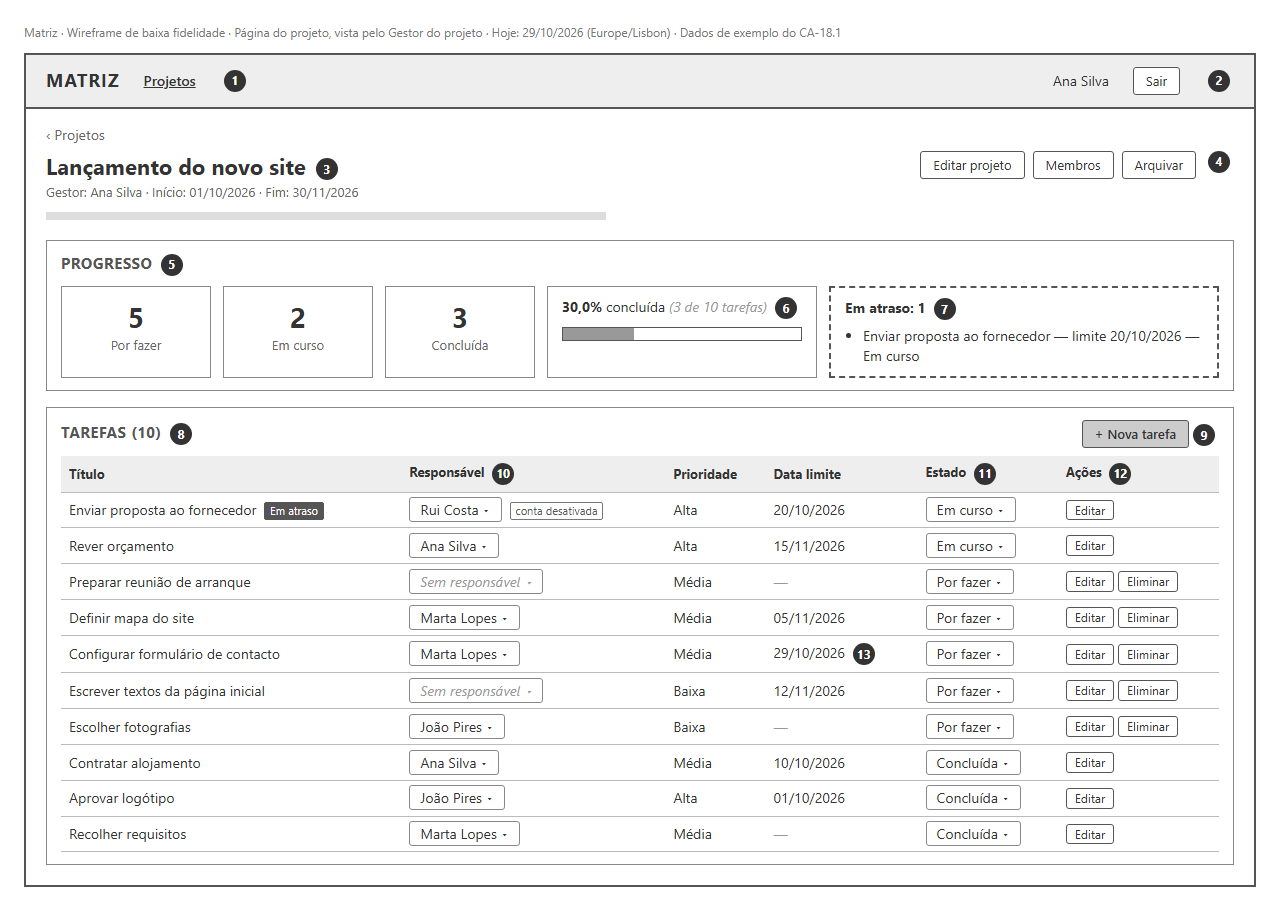
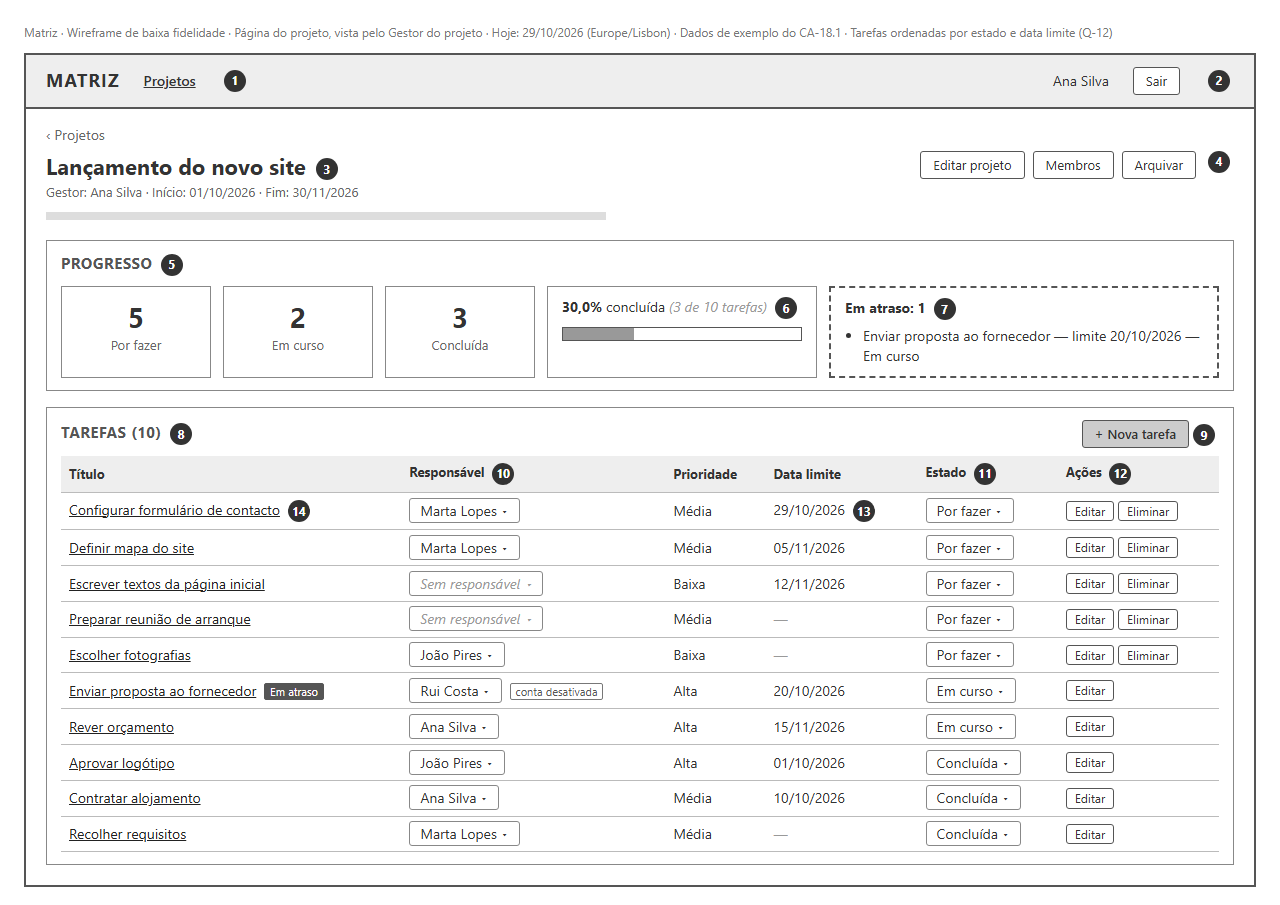
docs: revisão crítica do Architecture Pack (Ficha 2, Exercício 5)
- constraints.md: RV-24 a RV-30 e decisões Q-12 (ordem das listas) e
  Q-13 (membros veem os nomes dos outros membros).
- requirements.md e user-stories.md: regras de Q-12 e Q-13 em RF-06,
  RF-15, RF-18 e na matriz de permissões; CA-07.3, CA-17.3 e CA-19.5.
- architecture.md: o Progresso lê as tarefas pela interface de Tarefas.
- database.md: regra 15 e email sem distinguir maiúsculas no diagrama.
- openapi.yaml: ordem de verificação dos erros e operações por documentar.
- docs/ui/: tarefas na ordem de Q-12, título como link para o detalhe e
  validação face à API corrigida.
- README: Architecture Pack revisto.

diff --git a/docs/ui/wireframe.html b/docs/ui/wireframe.html
@@ -48,12 +48,13 @@
   .muted { color: #999; font-style: italic; }
   .sel::after { content: " ▾"; font-size: 11px; }
   .c { display: inline-flex; align-items: center; justify-content: center; width: 22px; height: 22px; border-radius: 50%; background: #333; color: #fff; font-size: 12px; font-weight: 700; margin: 0 4px; vertical-align: middle; }
+  td a { color: #222; text-decoration: underline; }
   .toolbar { display: flex; align-items: center; justify-content: space-between; margin-bottom: 8px; }
 </style>
 </head>
 <body>
 <div class="frame">
-  <div class="note">Matriz · Wireframe de baixa fidelidade · Página do projeto, vista pelo Gestor do projeto · Hoje: 29/10/2026 (Europe/Lisbon) · Dados de exemplo do CA-18.1</div>
+  <div class="note">Matriz · Wireframe de baixa fidelidade · Página do projeto, vista pelo Gestor do projeto · Hoje: 29/10/2026 (Europe/Lisbon) · Dados de exemplo do CA-18.1 · Tarefas ordenadas por estado e data limite (Q-12)</div>
 
   <div class="app">
     <div class="top">
@@ -108,16 +109,16 @@
             <tr><th>Título</th><th>Responsável <span class="c">10</span></th><th>Prioridade</th><th>Data limite</th><th>Estado <span class="c">11</span></th><th>Ações <span class="c">12</span></th></tr>
           </thead>
           <tbody>
-            <tr><td>Enviar proposta ao fornecedor <span class="tag dark">Em atraso</span></td><td><span class="box sel">Rui Costa</span> <span class="tag">conta desativada</span></td><td>Alta</td><td>20/10/2026</td><td><span class="box sel">Em curso</span></td><td><span class="btn small">Editar</span></td></tr>
-            <tr><td>Rever orçamento</td><td><span class="box sel">Ana Silva</span></td><td>Alta</td><td>15/11/2026</td><td><span class="box sel">Em curso</span></td><td><span class="btn small">Editar</span></td></tr>
-            <tr><td>Preparar reunião de arranque</td><td><span class="box sel muted">Sem responsável</span></td><td>Média</td><td class="muted">—</td><td><span class="box sel">Por fazer</span></td><td><span class="btn small">Editar</span> <span class="btn small">Eliminar</span></td></tr>
-            <tr><td>Definir mapa do site</td><td><span class="box sel">Marta Lopes</span></td><td>Média</td><td>05/11/2026</td><td><span class="box sel">Por fazer</span></td><td><span class="btn small">Editar</span> <span class="btn small">Eliminar</span></td></tr>
-            <tr><td>Configurar formulário de contacto</td><td><span class="box sel">Marta Lopes</span></td><td>Média</td><td>29/10/2026 <span class="c">13</span></td><td><span class="box sel">Por fazer</span></td><td><span class="btn small">Editar</span> <span class="btn small">Eliminar</span></td></tr>
-            <tr><td>Escrever textos da página inicial</td><td><span class="box sel muted">Sem responsável</span></td><td>Baixa</td><td>12/11/2026</td><td><span class="box sel">Por fazer</span></td><td><span class="btn small">Editar</span> <span class="btn small">Eliminar</span></td></tr>
-            <tr><td>Escolher fotografias</td><td><span class="box sel">João Pires</span></td><td>Baixa</td><td class="muted">—</td><td><span class="box sel">Por fazer</span></td><td><span class="btn small">Editar</span> <span class="btn small">Eliminar</span></td></tr>
-            <tr><td>Contratar alojamento</td><td><span class="box sel">Ana Silva</span></td><td>Média</td><td>10/10/2026</td><td><span class="box sel">Concluída</span></td><td><span class="btn small">Editar</span></td></tr>
-            <tr><td>Aprovar logótipo</td><td><span class="box sel">João Pires</span></td><td>Alta</td><td>01/10/2026</td><td><span class="box sel">Concluída</span></td><td><span class="btn small">Editar</span></td></tr>
-            <tr><td>Recolher requisitos</td><td><span class="box sel">Marta Lopes</span></td><td>Média</td><td class="muted">—</td><td><span class="box sel">Concluída</span></td><td><span class="btn small">Editar</span></td></tr>
+            <tr><td><a>Configurar formulário de contacto</a> <span class="c">14</span></td><td><span class="box sel">Marta Lopes</span></td><td>Média</td><td>29/10/2026 <span class="c">13</span></td><td><span class="box sel">Por fazer</span></td><td><span class="btn small">Editar</span> <span class="btn small">Eliminar</span></td></tr>
+            <tr><td><a>Definir mapa do site</a></td><td><span class="box sel">Marta Lopes</span></td><td>Média</td><td>05/11/2026</td><td><span class="box sel">Por fazer</span></td><td><span class="btn small">Editar</span> <span class="btn small">Eliminar</span></td></tr>
+            <tr><td><a>Escrever textos da página inicial</a></td><td><span class="box sel muted">Sem responsável</span></td><td>Baixa</td><td>12/11/2026</td><td><span class="box sel">Por fazer</span></td><td><span class="btn small">Editar</span> <span class="btn small">Eliminar</span></td></tr>
+            <tr><td><a>Preparar reunião de arranque</a></td><td><span class="box sel muted">Sem responsável</span></td><td>Média</td><td class="muted">—</td><td><span class="box sel">Por fazer</span></td><td><span class="btn small">Editar</span> <span class="btn small">Eliminar</span></td></tr>
+            <tr><td><a>Escolher fotografias</a></td><td><span class="box sel">João Pires</span></td><td>Baixa</td><td class="muted">—</td><td><span class="box sel">Por fazer</span></td><td><span class="btn small">Editar</span> <span class="btn small">Eliminar</span></td></tr>
+            <tr><td><a>Enviar proposta ao fornecedor</a> <span class="tag dark">Em atraso</span></td><td><span class="box sel">Rui Costa</span> <span class="tag">conta desativada</span></td><td>Alta</td><td>20/10/2026</td><td><span class="box sel">Em curso</span></td><td><span class="btn small">Editar</span></td></tr>
+            <tr><td><a>Rever orçamento</a></td><td><span class="box sel">Ana Silva</span></td><td>Alta</td><td>15/11/2026</td><td><span class="box sel">Em curso</span></td><td><span class="btn small">Editar</span></td></tr>
+            <tr><td><a>Aprovar logótipo</a></td><td><span class="box sel">João Pires</span></td><td>Alta</td><td>01/10/2026</td><td><span class="box sel">Concluída</span></td><td><span class="btn small">Editar</span></td></tr>
+            <tr><td><a>Contratar alojamento</a></td><td><span class="box sel">Ana Silva</span></td><td>Média</td><td>10/10/2026</td><td><span class="box sel">Concluída</span></td><td><span class="btn small">Editar</span></td></tr>
+            <tr><td><a>Recolher requisitos</a></td><td><span class="box sel">Marta Lopes</span></td><td>Média</td><td class="muted">—</td><td><span class="box sel">Concluída</span></td><td><span class="btn small">Editar</span></td></tr>
           </tbody>
         </table>
       </div>

diff --git a/docs/ui/wireframe.md b/docs/ui/wireframe.md
@@ -1,6 +1,6 @@
 # Matriz — Wireframe da página do projeto
 
-Versão 0.1 · 29 de outubro de 2026 · Ficha Prática 02, Exercício 4
+Versão 0.2 · 29 de outubro de 2026 · Ficha Prática 02, Exercícios 4 e 5 · a 0.2 aplica a revisão crítica (RV-27, RV-28, Q-12, Q-13).
 
 > **Estado: proposta, por aprovar pela dona do produto (R-06).** Wireframe de baixa fidelidade de um ecrã do MVP. Não define cores, tipografia nem tecnologia. Os pressupostos de navegação e de interação estão na secção 5, separados dos requisitos.
 
@@ -30,12 +30,13 @@ Os números correspondem aos círculos da imagem.
 | 5 | Contagem de tarefas por estado | RF-16, CA-18.1 |
 | 6 | Percentagem concluída, arredondada às décimas, com o total de tarefas | RF-17, A-09, RV-12, CA-18.1 |
 | 7 | Quantas e quais tarefas estão em atraso | RF-18, CA-19.1 |
-| 8 | Lista de tarefas com título, responsável, prioridade, data limite e estado | RF-15, CA-17.1 |
+| 8 | Lista de tarefas com título, responsável, prioridade, data limite e estado, ordenada por estado e, dentro de cada estado, por data limite crescente (sem data no fim) | RF-15, CA-17.1, CA-17.3, Q-12 |
 | 9 | Criar tarefa (só o Gestor) | RF-09, D-11, EC-05 |
 | 10 | Responsável: escolher, mudar ou retirar. Só aparecem membros ativos do projeto, incluindo o Gestor. Um responsável desativado mantém-se, com o aviso "conta desativada" | RF-10, A-15, CA-12.1 a CA-12.4, EC-21, EC-22 |
 | 11 | Mudar o estado, para qualquer um dos três | RF-11, RF-12, CA-13.2, CA-13.4 |
 | 12 | "Editar" abre todos os campos da tarefa (Gestor). "Eliminar" só aparece em tarefas "Por fazer" | RF-14, RF-22, A-11, EC-13 |
 | 13 | Data limite igual a hoje: a tarefa ainda não está em atraso | A-08, EC-07 |
+| 14 | O título é um link que abre o detalhe da tarefa, onde se lê a descrição | RF-15, CA-17.2, RV-28 |
 
 Os dados de exemplo também mostram:
 - "Contratar alojamento" e "Aprovar logótipo" estão "Concluída" com a data limite ultrapassada e não aparecem em atraso (CA-19.2).
@@ -48,7 +49,7 @@ Não desenhadas; decorrem da matriz de permissões ([requirements.md](../require
 
 | Situação | O que muda no ecrã |
 |---|---|
-| **Membro do projeto** (não Gestor) | Não vê "Editar projeto", "Membros", "Arquivar", "+ Nova tarefa" nem "Eliminar" (RF-05 a RF-07, RF-09, RF-22, EC-05, EC-12). O responsável aparece como texto. Nas tarefas sem responsável aparece "Atribuir-me", e nas suas tarefas aparece "Largar" (RF-10, US-20, EC-34). Só muda o estado das tarefas de que é responsável (RF-11, CA-13.3, EC-04). "Editar" só aparece nas suas tarefas e só deixa alterar a descrição (RF-13, CA-14.2). Pode abrir qualquer tarefa para ler a descrição (RF-15, CA-17.2). |
+| **Membro do projeto** (não Gestor) | Não vê "Editar projeto", "Arquivar", "+ Nova tarefa" nem "Eliminar" (RF-05, RF-07, RF-09, RF-22, EC-05, EC-12). "Membros" mostra só os nomes dos membros, sem email e sem adicionar nem remover (RF-06, Q-13, CA-07.3). O responsável aparece como texto. Nas tarefas sem responsável aparece "Atribuir-me", e nas suas tarefas aparece "Largar" (RF-10, US-20, EC-34). Só muda o estado das tarefas de que é responsável (RF-11, CA-13.3, EC-04). "Editar" só aparece nas suas tarefas e só deixa alterar a descrição (RF-13, CA-14.2). Pode abrir qualquer tarefa para ler a descrição (RF-15, CA-17.2). |
 | **Administrador membro do projeto** | Igual ao Membro (Q-06, EC-30). |
 | **Projeto arquivado** | O projeto aparece marcado como "Arquivado". Todas as ações de alteração desaparecem; o Gestor vê "Desarquivar" no lugar de "Arquivar". O progresso e a lista continuam visíveis (D-09, A-05, EC-16, CA-08.1). |
 | **Projeto sem tarefas** | O bloco da percentagem mostra "Sem tarefas" (A-09, CA-18.5). |
@@ -62,7 +63,8 @@ Não desenhadas; decorrem da matriz de permissões ([requirements.md](../require
 | Não aparecem funcionalidades fora do âmbito | ✅ Sem "As minhas tarefas" (RF-19), visão geral do Gestor (RF-20), filtros e ordenação (RF-21), histórico (RF-23), comentários (RF-24), notificações (RF-25), importação (RF-26) nem estados configuráveis (RF-27) |
 | Os valores de progresso seguem as regras de cálculo | ✅ 3 de 10 = 30,0%; 1 tarefa em atraso, coerente com D-18, A-08 e CA-19.1 a CA-19.3 |
 | A interface está em português | ✅ RNF-01 |
-| Os dados mostrados correspondem ao contrato da API | ✅ Os campos do progresso e da lista correspondem aos schemas `Progresso` e `Tarefa` do [openapi.yaml](../../openapi.yaml) |
+| Os dados mostrados correspondem ao contrato da API | ⚠ Parcial. O progresso corresponde à operação `obterProgressoProjeto` e os campos de cada linha ao schema `Tarefa` do [openapi.yaml](../../openapi.yaml). As operações para listar tarefas, ver o projeto e os membros, atribuir responsável, editar e eliminar ainda não estão documentadas; estão listadas no openapi.yaml (RV-27). |
+| A ordem das listas segue Q-12 | ✅ Por fazer → Em curso → Concluída; dentro de cada estado, por data limite crescente, com as tarefas sem data no fim |
 | A navegação permite chegar ao ecrã a partir da entrada | ✅ Entrada → lista de projetos (CA-01.1) → página do projeto |
 
 ## 5. Pressupostos deste wireframe (por aprovar)
@@ -73,6 +75,11 @@ Não desenhadas; decorrem da matriz de permissões ([requirements.md](../require
 - O Administrador tem entradas próprias na navegação para gerir contas e transferir projetos (RF-02, RF-03, RF-30). Não aparecem aqui porque o ecrã é visto pelo Gestor.
 - Antes de eliminar, aparece um pedido de confirmação (A-10, EC-10). Não está desenhado.
 
-## 6. Questão em aberto
+## 6. Questões levantadas por este wireframe
 
-- **Ordem da lista de tarefas.** Os requisitos não definem por que ordem aparecem as tarefas, e escolher a ordem é o RF-21, que está fora do âmbito. O wireframe mostra-as agrupadas por estado só como exemplo. É preciso uma decisão da dona do produto antes da implementação. Pode vir a ser registada como Q-12 em [constraints.md](../constraints.md).
+Decididas pela dona do produto e registadas em [constraints.md](../constraints.md#questões-da-consolidação).
+
+| ID | Questão | Decisão |
+|---|---|---|
+| Q-12 | Ordem da lista de tarefas e da lista em atraso | Por estado e, dentro de cada estado, por data limite crescente, com as tarefas sem data no fim. Em atraso: por data limite crescente. |
+| Q-13 | Um membro vê os outros membros do projeto? | Sim, só pelo nome, sem email. |

diff --git a/docs/constraints.md b/docs/constraints.md
@@ -1,6 +1,6 @@
 # Matriz — Restrições, pressupostos e pendentes
 
-Versão 1.2 · 29 de outubro de 2026 · acrescenta Q-09 a Q-11 e atualiza o estado da arquitetura.
+Versão 1.3 · 29 de outubro de 2026 · a 1.2 acrescentou Q-09 a Q-11 e atualizou o estado da arquitetura; a 1.3 acrescenta Q-12, Q-13 e a revisão crítica do Architecture Pack (RV-24 a RV-30).
 
 > **Origem da informação.** O cliente é fictício. A única informação confirmada é a frase original do cliente (C-00). Todos os outros pontos são pressupostos da dona do produto: estão aprovados para orientar o desenvolvimento, mas **não são requisitos confirmados pelo cliente**.
 >
@@ -125,6 +125,8 @@ Questões levantadas ao consolidar a documentação, já decididas pela dona do 
 | Q-09 | Numa transferência, o novo Gestor passa a membro do projeto, se ainda não o for? | Sim, na mesma operação da transferência, para cumprir A-01. Levantada no modelo de dados (Ficha 02). | RF-30, EC-37, database.md | Decidido |
 | Q-10 | A unicidade do email ignora maiúsculas e minúsculas? | Sim: emails que só diferem em maiúsculas e minúsculas contam como o mesmo email. Levantada no modelo de dados (Ficha 02). | RF-02, RV-18, EC-38, database.md | Decidido |
 | Q-11 | Pode adicionar-se um utilizador com conta desativada como membro de um projeto? | Não: só se adicionam utilizadores com conta ativa, coerente com A-21. Levantada no modelo de dados (Ficha 02). | RF-06, A-21, EC-39, database.md | Decidido |
+| Q-12 | Por que ordem aparecem as tarefas na lista do projeto e na lista em atraso? | Lista do projeto: por estado (Por fazer, Em curso, Concluída) e, dentro de cada estado, por data limite crescente, com as tarefas sem data limite no fim. Lista em atraso: por data limite crescente. Não exige dados novos. Levantada no wireframe (Ficha 02, RV-26). | RF-15, RF-18, CA-17.3, CA-19.5, openapi.yaml, docs/ui/ | Decidido |
+| Q-13 | Um membro do projeto pode ver quem são os outros membros? | Sim, só pelo nome, sem email; não alarga a exposição de emails (RV-14). Levantada na revisão do Architecture Pack (RV-29). | RF-06, requirements.md secção 3, CA-07.3, docs/ui/ | Decidido |
 
 ### Decisões da revisão crítica
 
@@ -155,6 +157,20 @@ Resultado da revisão independente da documentação (Exercício 6). A dona do p
 | RV-21 | US-03 dependia de US-10, entregue depois. | US-10 passa para a ordem 2. | user-stories.md, secção 1 | Decidido (alterado) |
 | RV-22 | README e AGENTS.md desatualizados um em relação ao outro. | Atualizadas as duas referências. | README.md, AGENTS.md | Decidido |
 | RV-23 | A regra 6 do AGENTS.md omitia séries de IDs. | Alinhada com a secção 1 deste ficheiro. | AGENTS.md | Decidido |
+
+### Decisões da revisão crítica do Architecture Pack
+
+Resultado da revisão da coerência entre requisitos, arquitetura, dados, API e wireframe (Ficha 02, Exercício 5). A dona do produto decidiu cada ponto.
+
+| ID | Problema | Decisão | Onde se aplica | Estado |
+|---|---|---|---|---|
+| RV-24 | O diagrama de componentes mostrava o Progresso a ler a base de dados diretamente, contra a regra de os módulos não usarem as tabelas de outro módulo. | O Progresso lê as tarefas através da interface do módulo de Tarefas. | architecture.md, secção 4 | Decidido |
+| RV-25 | Não estava definido que erro se devolve quando um pedido tem vários problemas (ex.: Membro a criar uma tarefa num projeto arquivado). | Ordem de verificação: 401, 404, 403, 409, 400, 422. As permissões são verificadas antes do conteúdo do pedido. | openapi.yaml | Decidido |
+| RV-26 | A ordem da lista de tarefas e da lista em atraso não estava definida. | Decidida em Q-12. | Q-12 | Decidido |
+| RV-27 | O wireframe usa operações que o contrato não documenta (listar tarefas, dados do projeto, atribuir responsável, eliminar). | Listadas no openapi.yaml como operações por documentar; corrigida a validação do wireframe. | openapi.yaml, docs/ui/wireframe.md | Decidido |
+| RV-28 | O wireframe não mostrava como abrir uma tarefa para ler a descrição (CA-17.2). | O título da tarefa é um link para o detalhe. | docs/ui/ | Decidido |
+| RV-29 | Não estava definido se um membro vê os outros membros do projeto. | Decidida em Q-13. | Q-13 | Decidido |
+| RV-30 | O diagrama ER não dizia que a unicidade do email ignora maiúsculas e minúsculas (Q-10). | Acrescentado ao comentário do atributo. | database.md, secção 3 | Decidido |
 
 ## 3. Segurança e privacidade
 

diff --git a/docs/user-stories.md b/docs/user-stories.md
@@ -1,6 +1,6 @@
 # Matriz — User Stories e critérios de aceitação
 
-Versão 1.2 · 29 de outubro de 2026 · acrescenta EC-37 a EC-39 (Q-09 a Q-11).
+Versão 1.3 · 29 de outubro de 2026 · a 1.2 acrescentou EC-37 a EC-39 (Q-09 a Q-11); a 1.3 acrescenta CA-07.3, CA-17.3 e CA-19.5 (Q-12, Q-13).
 
 > **Origem da informação.** O cliente é fictício. Todas as regras são pressupostos da dona do produto.
 >
@@ -67,6 +67,7 @@ Versão 1.2 · 29 de outubro de 2026 · acrescenta EC-37 a EC-39 (Q-09 a Q-11).
 ### US-07: Gerir membros
 - **CA-07.1** — **Dado** um Gestor a adicionar membros a um projeto seu, **quando** consulta os utilizadores disponíveis, **então** vê apenas utilizadores com conta ativa, identificados por nome e email (A-21).
 - **CA-07.2** — **Dado** um Gestor e um utilizador ativo que não é membro do projeto, **quando** o adiciona, **então** o projeto passa a aparecer na lista de projetos desse utilizador.
+- **CA-07.3** — **Dado** um membro do projeto que não é o Gestor, **quando** consulta os membros do projeto, **então** vê o nome de cada membro, sem o email, e não pode adicionar nem remover membros (Q-13).
 
 ### US-08: Arquivar e desarquivar
 - **CA-08.1** — **Dado** um Gestor e um projeto seu não arquivado, **quando** o arquiva, **então** o projeto fica marcado como "Arquivado" e só pode ser consultado (D-09).
@@ -113,6 +114,7 @@ Versão 1.2 · 29 de outubro de 2026 · acrescenta EC-37 a EC-39 (Q-09 a Q-11).
 ### US-17: Lista de tarefas
 - **CA-17.1** — **Dado** um projeto com tarefas, **quando** um membro do projeto abre a lista de tarefas, **então** vê, para cada tarefa, o título, o responsável (ou a indicação de que não tem), a prioridade, a data limite (se tiver) e o estado.
 - **CA-17.2** — **Dado** um membro do projeto e uma tarefa de que não é responsável, **quando** abre essa tarefa, **então** consegue ler a descrição, mas não a consegue editar (RV-17).
+- **CA-17.3** — **Dado** um projeto com tarefas nos três estados, com e sem data limite, **quando** um membro do projeto abre a lista de tarefas, **então** vê primeiro as "Por fazer", depois as "Em curso" e por fim as "Concluída"; dentro de cada estado, as tarefas aparecem por data limite crescente e as que não têm data limite ficam no fim (Q-12).
 
 ### US-18: Contagens e percentagem concluída
 - **CA-18.1** — **Dado** um projeto com 10 tarefas (5 "Por fazer", 2 "Em curso", 3 "Concluída"), **quando** um membro do projeto abre o progresso, **então** vê as contagens 5, 2 e 3 e a percentagem concluída de 30,0%.
@@ -127,6 +129,7 @@ Versão 1.2 · 29 de outubro de 2026 · acrescenta EC-37 a EC-39 (Q-09 a Q-11).
 - **CA-19.2** — **Dada** uma tarefa "Concluída" com data limite anterior a hoje, **quando** um membro do projeto abre o progresso, **então** a tarefa não aparece como em atraso.
 - **CA-19.3** — **Dada** uma tarefa sem data limite, **quando** um membro do projeto abre o progresso, **então** a tarefa não aparece como em atraso.
 - **CA-19.4** — **Dada** uma tarefa em atraso, **quando** o responsável ou o Gestor a muda para "Concluída", **então** deixa de ser contada e listada como em atraso.
+- **CA-19.5** — **Dadas** várias tarefas em atraso com datas limite diferentes, **quando** um membro do projeto abre o progresso, **então** as tarefas em atraso aparecem por data limite crescente, a mais antiga primeiro (Q-12).
 
 ### US-20: Assumir uma tarefa
 - **CA-20.1** — **Dado** um membro do projeto e uma tarefa sem responsável num projeto não arquivado, **quando** se atribui a tarefa, **então** passa a constar como responsável e pode mudar o estado e a descrição dessa tarefa (RV-02).

diff --git a/docs/requirements.md b/docs/requirements.md
@@ -1,6 +1,6 @@
 # Matriz — Requisitos
 
-Versão 1.2 · 29 de outubro de 2026 · consolida o "Âmbito funcional e MVP" v0.1, o "Backlog inicial do MVP" v0.1 (versões de trabalho anteriores, não incluídas no repositório), as decisões da dona do produto, a revisão crítica (RV-xx) e as decisões Q-09 a Q-11. A versão 1.2 acrescenta a justificação das funcionalidades fora do âmbito (secção 7).
+Versão 1.3 · 29 de outubro de 2026 · consolida o "Âmbito funcional e MVP" v0.1, o "Backlog inicial do MVP" v0.1 (versões de trabalho anteriores, não incluídas no repositório), as decisões da dona do produto, as revisões críticas (RV-xx) e as decisões Q-09 a Q-13. A versão 1.2 acrescentou a justificação das funcionalidades fora do âmbito (secção 7); a 1.3 acrescenta a ordem das listas (Q-12) e a visibilidade dos membros (Q-13).
 
 > **Origem da informação.** O cliente é fictício. A única informação confirmada é a frase original do cliente:
 >
@@ -62,6 +62,7 @@ Resume as permissões de cada perfil. É verificada pelos critérios de aceitaç
 | Editar os dados do projeto | ❌ | ✅ | ❌ | RF-05 |
 | Ver utilizadores ativos (nome e email) para adicionar membros | ❌ | ✅ | ❌ | RF-06 |
 | Adicionar e remover membros | ❌ | ✅ | ❌ | RF-06 |
+| Ver os membros do projeto (só o nome) | ❌ | ✅ | ✅ | RF-06 |
 | Arquivar e desarquivar | ❌ | ✅ | ❌ | RF-07 |
 | Ver a lista dos projetos a que pertence | ❌ | ✅ | ✅ | RF-08 |
 
@@ -125,6 +126,7 @@ Todos os requisitos desta secção são **Must** (D-23).
 - Uma pessoa pode estar em vários projetos (R-07).
 - O Gestor do projeto não pode ser removido dos membros; para deixar o projeto, este tem de ser transferido (Q-05).
 - Um utilizador só com o perfil Administrador pode ser adicionado como membro; nesse projeto tem as permissões de Membro (Q-06).
+- Qualquer membro do projeto vê os membros desse projeto, identificados só pelo nome, sem email (Q-13).
 
 **RF-07 — Arquivar e desarquivar.** O Gestor arquiva um projeto (D-09); um projeto nunca é apagado (R-12).
 - Um projeto arquivado fica só de consulta (D-09).
@@ -170,6 +172,7 @@ Todos os requisitos desta secção são **Must** (D-23).
 **RF-15 — Lista de tarefas.** Cada projeto mostra a lista das suas tarefas com título, responsável, prioridade, data limite e estado (D-16).
 - Um responsável com conta desativada aparece com o aviso "conta desativada" (A-15).
 - Qualquer membro do projeto pode ler a descrição de todas as tarefas do projeto, incluindo as que não são suas (RV-17).
+- Ordem da lista: por estado (Por fazer, Em curso, Concluída) e, dentro de cada estado, por data limite crescente; as tarefas sem data limite ficam no fim do seu estado (Q-12).
 
 **RF-22 — Eliminar tarefa.** O Gestor elimina uma tarefa de um projeto seu, criada por engano.
 - Só é possível eliminar uma tarefa em "Por fazer" (A-11, alterada por RV-10).
@@ -189,6 +192,7 @@ Todos os requisitos desta secção são **Must** (D-23).
 - Uma tarefa está em atraso quando a data limite é anterior ao dia de hoje e o estado é diferente de Concluída (D-18).
 - No próprio dia da data limite, a tarefa não está em atraso (A-08).
 - O dia de hoje é determinado no fuso horário Europe/Lisbon (A-08).
+- A lista das tarefas em atraso está ordenada por data limite crescente, a mais antiga primeiro (Q-12).
 
 ### Transferência
 

diff --git a/docs/architecture.md b/docs/architecture.md
@@ -1,6 +1,6 @@
 # Matriz — Arquitetura
 
-Versão 0.2 · 29 de outubro de 2026 · Ficha Prática 02, Exercício 1 · corrige o sentido das dependências entre módulos.
+Versão 0.3 · 29 de outubro de 2026 · Ficha Prática 02, Exercício 1 · a 0.2 corrigiu o sentido das dependências entre módulos; a 0.3 retira o acesso direto do Progresso à base de dados (RV-24).
 
 > **Estado: proposta, por aprovar pela dona do produto (R-06).** Este documento decide o estilo de arquitetura e os componentes do MVP. Não escolhe tecnologias: a stack, o alojamento e o método de autenticação continuam pendentes ([constraints.md](constraints.md#4-decisões-técnicas-pendentes)). Os pressupostos novos estão na secção 6, separados dos requisitos confirmados.
 
@@ -64,7 +64,6 @@ flowchart TB
     end
 
     CON & PRO & TAR --> DB[(Base de dados única)]
-    PRG -.->|só leitura| DB
 ```
 
 | Componente | Responsabilidades | RF / regras |
@@ -75,7 +74,7 @@ flowchart TB
 | **Contas e perfis** | Criar contas, atribuir e retirar perfis, desativar e reativar contas. Garante o email único, o perfil Membro permanente, pelo menos 1 Administrador ativo e que o Administrador não se atribui o perfil Gestor. Antes de desativar ou retirar o perfil Gestor, verifica se o utilizador ainda gere algum projeto, através de uma interface definida pelo próprio módulo de Contas (ver as regras entre módulos). | RF-01 a RF-03, RV-01, RV-02, RV-11, RV-18, A-16 a A-18 |
 | **Projetos e membros** | Criar, editar, arquivar e desarquivar projetos; gerir membros; lista de projetos do utilizador; transferência de projetos e a vista restrita do Administrador (nome e Gestor). | RF-04 a RF-08, RF-30, A-02 a A-06, A-14, Q-04 a Q-06 |
 | **Tarefas** | Criar, editar e eliminar tarefas; atribuir, assumir e largar responsável; mudar o estado; lista de tarefas do projeto. Aplica as regras de edição por perfil. | RF-09 a RF-15, RF-22, A-07, A-11, A-15, A-19 |
-| **Progresso** | Calcula, a partir das tarefas, a contagem por estado, a percentagem concluída (arredondada às décimas, máximo 99,9% até tudo estar concluído, "Sem tarefas") e as tarefas em atraso. Não guarda dados próprios. | RF-16 a RF-18, A-08, A-09, RV-12 |
+| **Progresso** | Calcula, a partir das tarefas lidas através da interface do módulo de Tarefas (RV-24), a contagem por estado, a percentagem concluída (arredondada às décimas, máximo 99,9% até tudo estar concluído, "Sem tarefas") e as tarefas em atraso. Não guarda dados próprios. | RF-16 a RF-18, A-08, A-09, RV-12 |
 | **Relógio de negócio** | Fornece o dia de hoje no fuso Europe/Lisbon a todas as regras que dependem da data. Isolado para os testes poderem fixar a data. | RNF-02, A-08 |
 | **Base de dados única** | Guarda contas, perfis, projetos, membros e tarefas. As alterações que cruzam módulos são feitas numa só transação. | RNF-07, D-02, R-12 |
 

diff --git a/docs/database.md b/docs/database.md
@@ -1,6 +1,6 @@
 # Matriz — Modelo de dados
 
-Versão 0.1 · 26 de outubro de 2026 · Ficha Prática 02, Exercício 2
+Versão 0.2 · 29 de outubro de 2026 · Ficha Prática 02, Exercício 2 · acrescenta a regra 15 (Q-12) e clarifica o email no diagrama (RV-30).
 
 > **Estado: proposta, por aprovar pela dona do produto (R-06).** Modelo conceptual dos dados do MVP (RF-01 a RF-18, RF-22, RF-30), coerente com a arquitetura de [architecture.md](architecture.md): uma base de dados única, partilhada pelos módulos Contas, Projetos e Tarefas. Não fixa tecnologia nem tipos físicos: o tipo de base de dados é decidido com a stack ([constraints.md](constraints.md#4-decisões-técnicas-pendentes)). Os pressupostos por aprovar estão na secção 5; as questões levantadas por este modelo, já decididas, na secção 6.
 
@@ -87,7 +87,7 @@ erDiagram
     UTILIZADOR {
         id id PK
         texto nome
-        texto email UK "único"
+        texto email UK "único, ignora maiúsculas e minúsculas"
         booleano ativo
     }
     PERFIL_ATRIBUIDO {
@@ -147,6 +147,7 @@ Regras que o diagrama não mostra e que têm de ser garantidas pelos módulos (o
 12. O progresso (contagem por estado, percentagem concluída e tarefas em atraso) é calculado a partir de TAREFA e não é guardado (RF-16 a RF-18, ver [architecture.md](architecture.md#6-pressupostos-desta-proposta-por-aprovar)).
 13. Uma tarefa está em atraso quando `data_limite` é anterior ao dia de hoje em Europe/Lisbon e `estado` é diferente de `Concluída` (D-18, A-08). O atraso não é guardado.
 14. A ordem da lista de projetos (ativos primeiro, depois arquivados) vem de `arquivado` (A-06).
+15. A ordem da lista de tarefas e da lista em atraso vem de `estado` e `data_limite` (Q-12); não exige atributos novos.
 
 ## 5. Pressupostos deste modelo (por aprovar)
 

diff --git a/README.md b/README.md
@@ -43,7 +43,8 @@ O detalhe, as regras de negócio e a matriz de permissões estão em [docs/requi
 
 ## Estado atual
 
-- **Specification Pack (Aula 1):** concluído e revisto. Todas as questões (Q-01 a Q-11) e os pontos da revisão crítica (RV-01 a RV-23) estão decididos.
-- **Architecture Pack (Aula 2):** em curso. A arquitetura, o modelo de dados, o contrato OpenAPI e o wireframe estão propostos, por aprovar pela dona do produto (R-06). Falta a revisão crítica final.
+- **Specification Pack (Aula 1):** concluído e revisto (RV-01 a RV-23).
+- **Architecture Pack (Aula 2):** concluído e revisto (RV-24 a RV-30). A arquitetura, o modelo de dados, o contrato OpenAPI e o wireframe continuam como proposta, por aprovar pela dona do produto (R-06).
+- **Questões:** todas decididas (Q-01 a Q-13).
 - **Código:** ainda não existe. A stack tecnológica continua por escolher.
 - **Pendente:** decisões técnicas e requisitos de segurança por definir, em [docs/constraints.md](docs/constraints.md#4-decisões-técnicas-pendentes).
